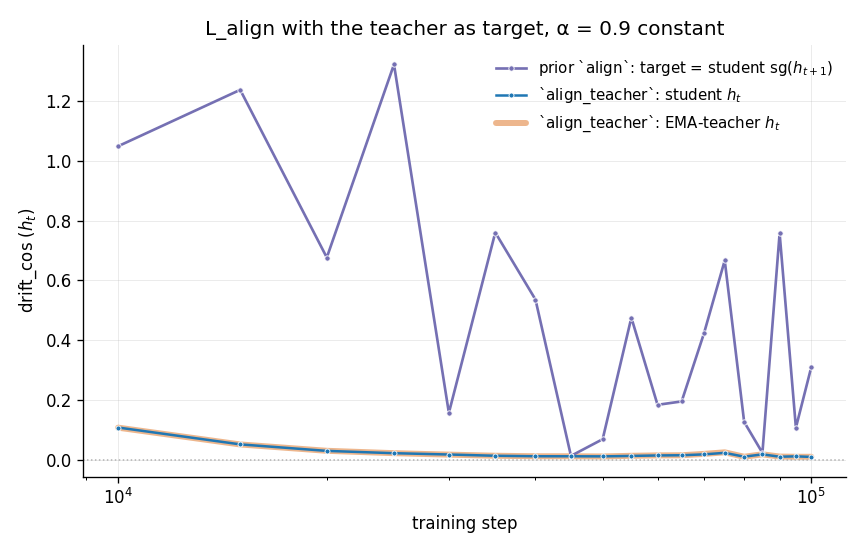
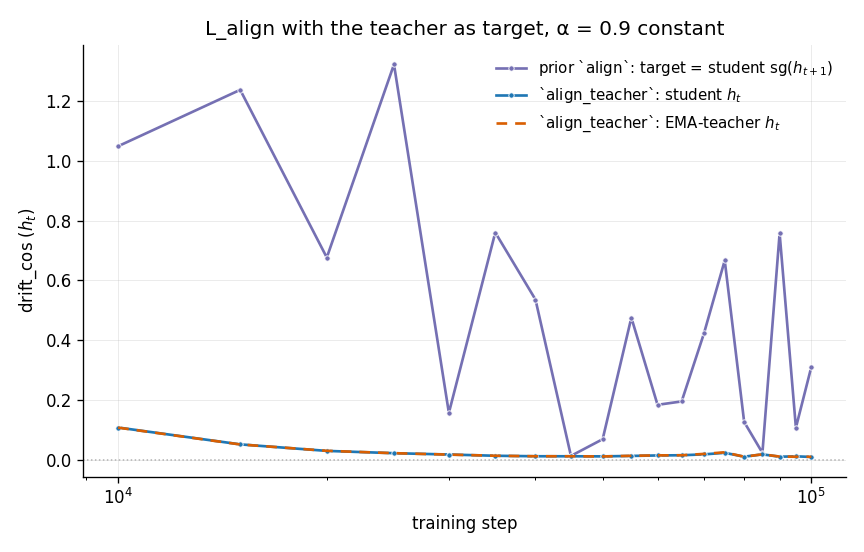
report(#388): teacher curves drawn on top and dashed, so both curves are visible

Changed region(s): [[0.125, 0.7699, 0.9375, 0.8315], [0.5625, 0.2156, 0.625, 0.2464]]

diff --git a/experiments/2026-08-01_align_teacher_ema_schedule/scripts/make_plots.py b/experiments/2026-08-01_align_teacher_ema_schedule/scripts/make_plots.py
@@ -21,9 +21,10 @@ ask for and the report does not carry:
                           L_align panels: both align arms sit within ~10%
                           of the collinear floor on the time axis.
 
-Encoding in drift_headline.png: one colour per named series, so a curve
-is identified from a single legend row. No crossed colour/line-style
-encoding, no band-under-line drawing.
+Encoding in drift_headline.png and align_fix.png: one colour per named
+series, so a curve is identified from a single legend row. The EMA-teacher
+series are drawn last and dashed, so where a teacher coincides with its
+student both stay visible.
 
 Encoding in the other figures: colour = which encoder (student / EMA
 teacher), line style = the α schedule (solid = constant, dashed =
@@ -134,20 +135,23 @@ def plot_headline(series, out_png):
     # distinct under the three common colour-vision deficiencies and where
     # curves overlap. Equal line weight everywhere: no curve is a backdrop
     # for another.
-    # Drawing order = list order; the student of each pair goes last so it
-    # stays visible where the two coincide. The caption names those spans.
+    # Drawing order = list order; the teacher of each pair goes LAST so it
+    # renders on top where the two coincide, and is dashed so the student
+    # shows through the gaps. Colour still identifies the curve on its own;
+    # the dash is an extra cue, not a replacement.
     named = [
-        (("const_0.9", "teacher_h"), "#E69F00",
-         "EMA teacher $h_t$, alpha = 0.9"),
-        (("sched_0.9_1.0", "teacher_h"), "#CC79A7",
-         "EMA teacher $h_t$, alpha: 0.9 -> 1.0"),
-        (("const_0.9", "student_h"), "#0072B2", "student $h_t$, alpha = 0.9"),
+        (("const_0.9", "student_h"), "#0072B2", "student $h_t$, alpha = 0.9",
+         "-"),
         (("sched_0.9_1.0", "student_h"), "#009E73",
-         "student $h_t$, alpha: 0.9 -> 1.0"),
+         "student $h_t$, alpha: 0.9 -> 1.0", "-"),
+        (("const_0.9", "teacher_h"), "#E69F00",
+         "EMA teacher $h_t$, alpha = 0.9", (0, (4, 3))),
+        (("sched_0.9_1.0", "teacher_h"), "#CC79A7",
+         "EMA teacher $h_t$, alpha: 0.9 -> 1.0", (0, (4, 3))),
     ]
-    legend_order = [2, 0, 3, 1]
+    legend_order = [0, 2, 1, 3]
     solo_color, solo_label = "#333333", "student $h_t$"
-    kw = dict(lw=1.5, linestyle="-", marker="o", ms=3.0,
+    kw = dict(lw=1.5, marker="o", ms=3.0,
               markeredgecolor="white", markeredgewidth=0.5)
 
     fig, axs = plt.subplots(3, 3, figsize=(11.5, 8.5), sharey=True,
@@ -157,13 +161,13 @@ def plot_headline(series, out_png):
         ax.axhline(0.0, color="#b0b0b0", linestyle=":", linewidth=0.9)
         pts_of = {(a, l): p for a, l, p in curves(series, arm, "adjacent")}
         if arm in TEACHER_ARMS:
-            for z, (key, color, _) in enumerate(named):
+            for z, (key, color, _, ls) in enumerate(named):
                 pts = pts_of.get(key, [])
                 if not pts:
                     print(f"  (missing {arm} {key})")
                     continue
                 ax.plot([p[0] for p in pts], [p[1] for p in pts],
-                        color=color, zorder=2 + z, **kw)
+                        color=color, linestyle=ls, zorder=2 + z, **kw)
             ax.set_facecolor("#fdf6f0")
         else:
             for pts in pts_of.values():
@@ -178,7 +182,8 @@ def plot_headline(series, out_png):
         if i % 3:
             ax.set_ylabel("")
     handles = [Line2D([], [], color=solo_color, lw=1.5, label=solo_label)]
-    handles += [Line2D([], [], color=named[i][1], lw=1.5, label=named[i][2])
+    handles += [Line2D([], [], color=named[i][1], lw=1.5,
+                       linestyle=named[i][3], label=named[i][2])
                 for i in legend_order]
     fig.legend(handles=handles, loc="lower center", ncol=3, frameon=False,
                fontsize=10, bbox_to_anchor=(0.5, -0.005))
@@ -194,31 +199,31 @@ def plot_headline(series, out_png):
 
 def plot_align_fix(series, out_png):
     fig, ax = plt.subplots(figsize=(7.2, 4.6))
-    # Drawn teacher-first so the student's line sits on top of its band;
-    # the legend is re-sorted afterwards to read student before teacher.
+    # The teacher is drawn LAST and dashed, so it renders on top of the
+    # student it coincides with and the student shows through the gaps.
     wanted = [
         (("align", "align", "none", "student_h", "adjacent"),
          "#7570b3", "prior `align`: target = student sg($h_{t+1}$)",
-         dict(MARK, zorder=3)),
-        (("align_teacher_a09", "align_teacher", "const_0.9", "teacher_h",
-          "adjacent"), TEACHER, "`align_teacher`: EMA-teacher $h_t$",
-         LATENT_KW["teacher_h"]),
+         "-", dict(MARK, zorder=3)),
         (("align_teacher_a09", "align_teacher", "const_0.9", "student_h",
           "adjacent"), STUDENT, "`align_teacher`: student $h_t$",
-         LATENT_KW["student_h"]),
+         "-", dict(MARK, zorder=4)),
+        (("align_teacher_a09", "align_teacher", "const_0.9", "teacher_h",
+          "adjacent"), TEACHER, "`align_teacher`: EMA-teacher $h_t$",
+         (0, (4, 3)), dict(lw=1.6, zorder=5)),
     ]
     handles = {}
-    for key, color, label, kw in wanted:
+    for key, color, label, ls, kw in wanted:
         pts = series.get(key, [])
         if not pts:
             print(f"  (missing {key})")
             continue
         handles[label], = ax.plot([p[0] for p in pts], [p[1] for p in pts],
-                                  color=color, linestyle="-", label=label,
+                                  color=color, linestyle=ls, label=label,
                                   **kw)
     ax.axhline(0.0, color="#b0b0b0", linestyle=":", linewidth=0.9)
     style_axes(ax, "drift_cos ($h_t$)")
-    order = [w[2] for w in (wanted[0], wanted[2], wanted[1])]
+    order = [w[2] for w in wanted]
     ax.legend([handles[k] for k in order if k in handles],
               [k for k in order if k in handles], frameon=False, fontsize=9)
     ax.set_title("L_align with the teacher as target, α = 0.9 constant",

diff --git a/experiments/2026-08-01_align_teacher_ema_schedule/align_teacher_ema_schedule.md b/experiments/2026-08-01_align_teacher_ema_schedule/align_teacher_ema_schedule.md
@@ -16,17 +16,19 @@ compared to its predecessor 5000 steps earlier. α is the weight the teacher
 keeps on itself in `θ_teacher ← α·θ_teacher + (1 − α)·θ_student`, applied after
 every optimizer step. One panel per loss term, same axes for all nine. Shaded
 panels have an EMA teacher and carry four named curves; the other six have no
-teacher and carry one. In every teacher panel the EMA-teacher curve lies under
-its student curve for the whole run, within a line width: orange under blue for
-α = 0.9, pink under green for the schedule. The two α settings separate from
+teacher and carry one. Solid = student, dashed = EMA teacher. In every teacher
+panel the EMA-teacher curve tracks its student curve within a line width for
+the whole run: orange on blue for α = 0.9, pink on green for the schedule. The
+two α settings separate from
 about 40k on `pred_moco` and `rep_moco`, and stay together on `align_teacher`.*
 
 ![L_align with the teacher as target](plots/align_fix.png)
 
 *Same probe and same 5000-step spacing, α = 0.9 constant. Purple: the earlier
 `align` arm, whose target was the student's own stop-gradient `sg(h_{t+1})`.
-Blue: `align_teacher`, target = EMA teacher `h_{t+1}`. The orange band is the
-EMA-teacher latent of the same run; it lies under the student curve.*
+Blue: `align_teacher`, target = EMA teacher `h_{t+1}`. Dashed orange: the
+EMA-teacher latent of the same run, which tracks the student curve within a
+line width for the whole run.*
 
 ![Dimension usage](plots/supporting/dim_usage.png)
 
